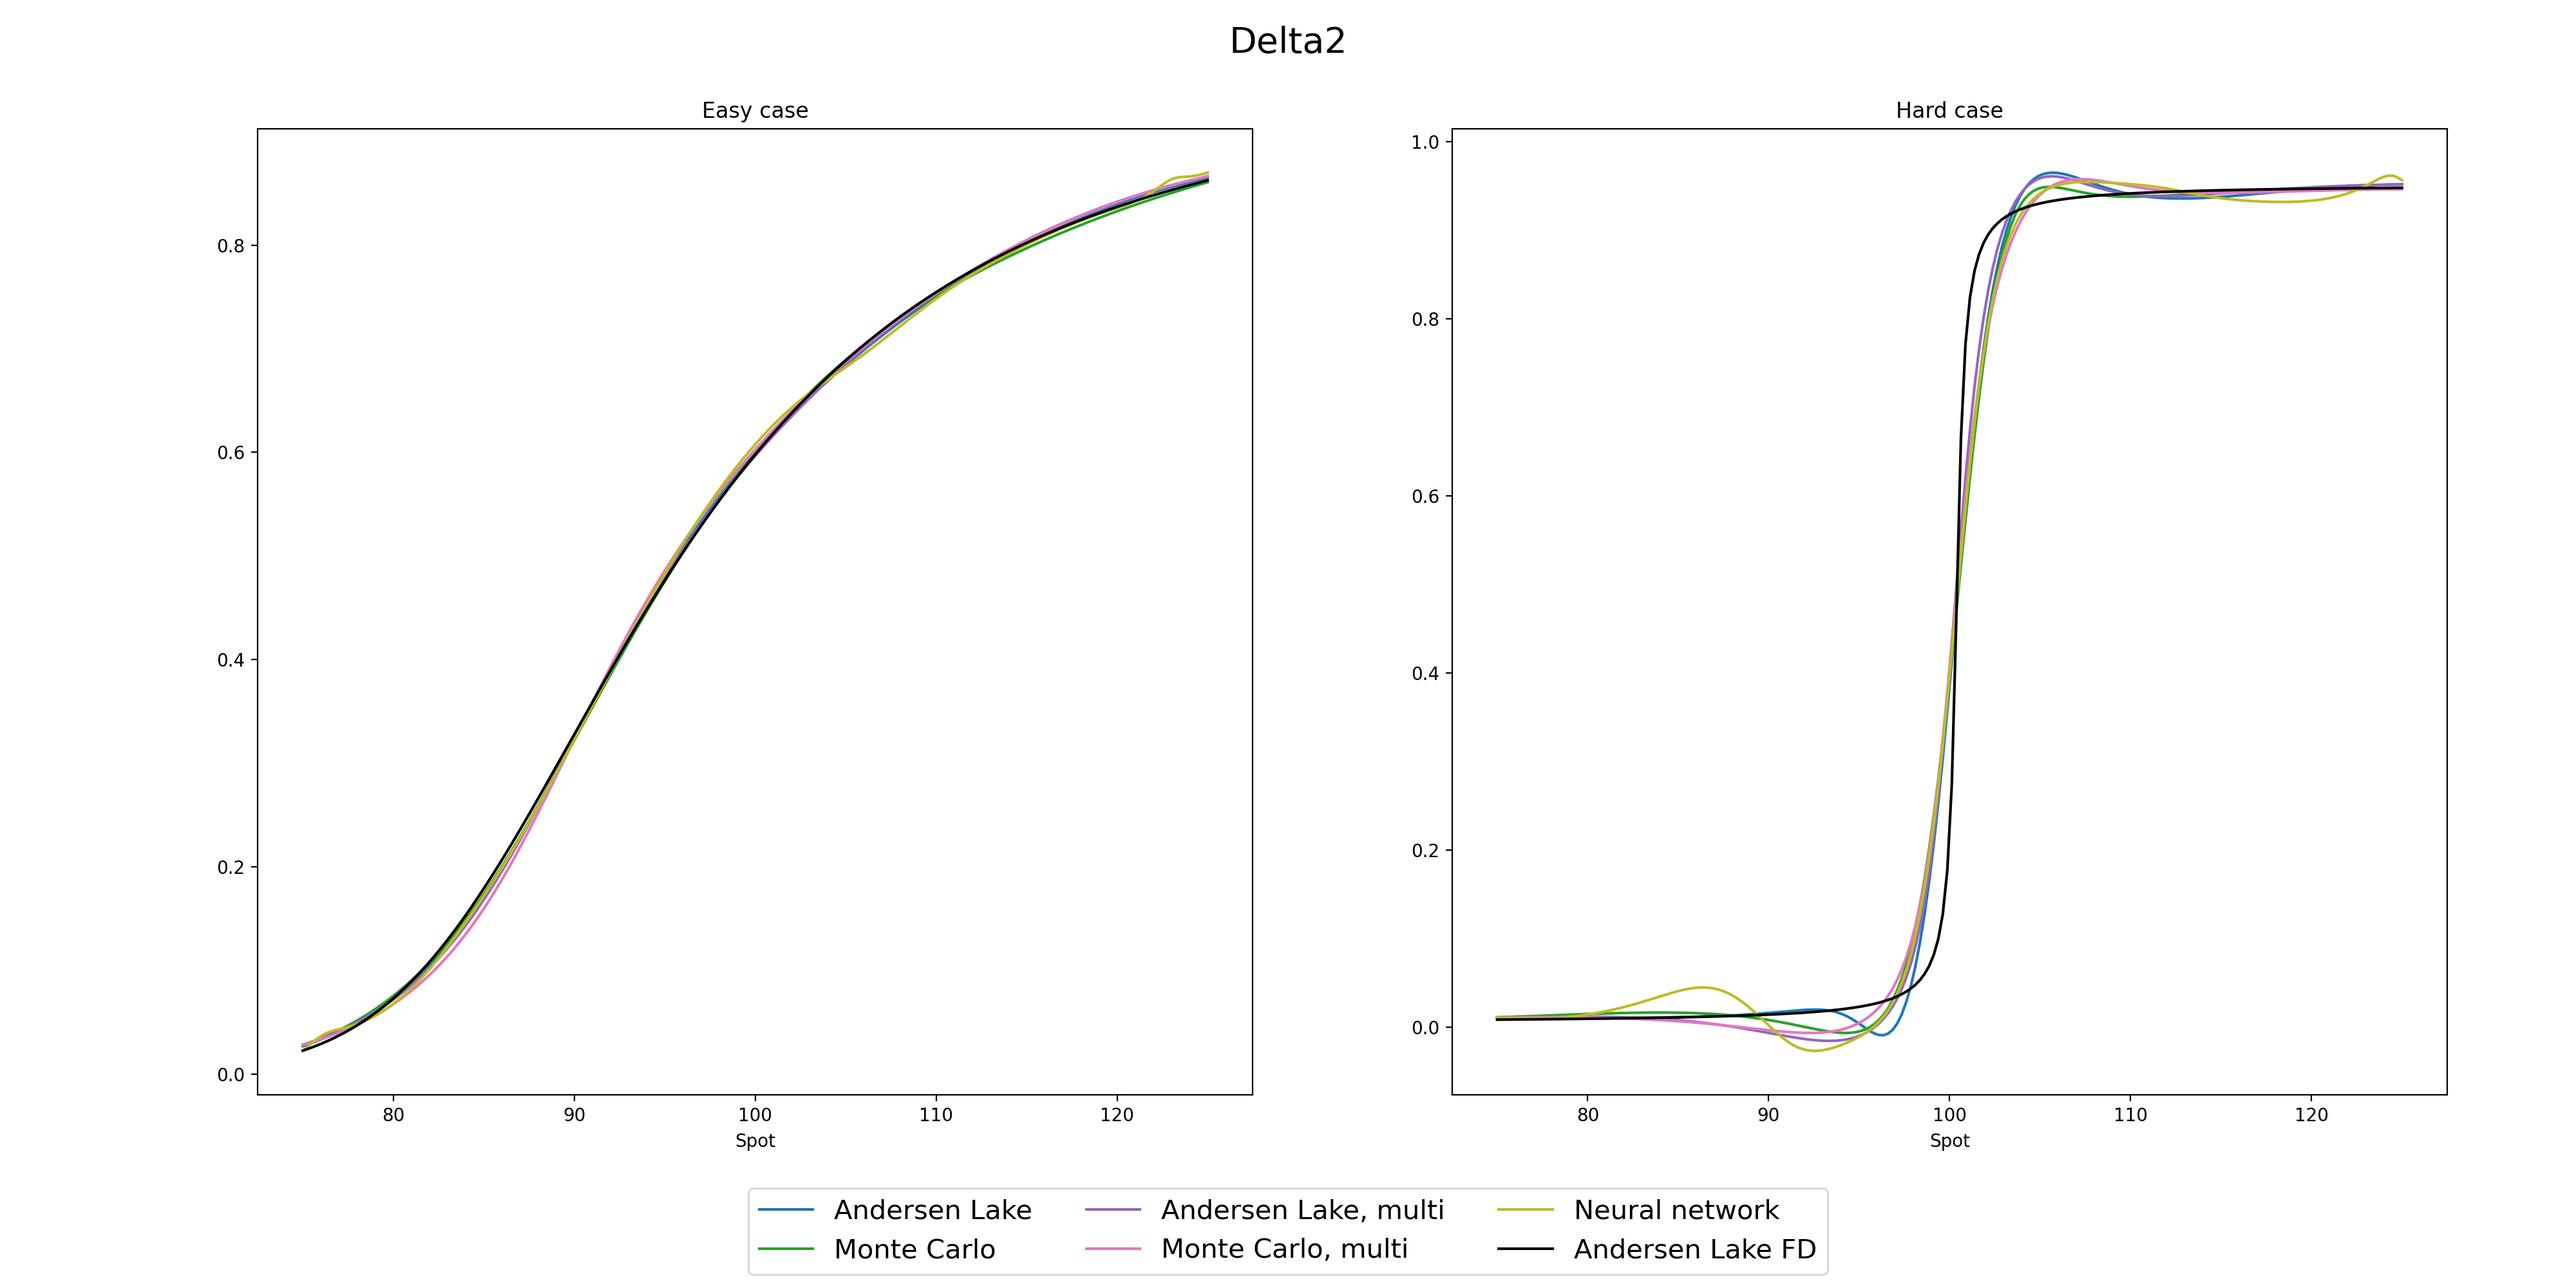
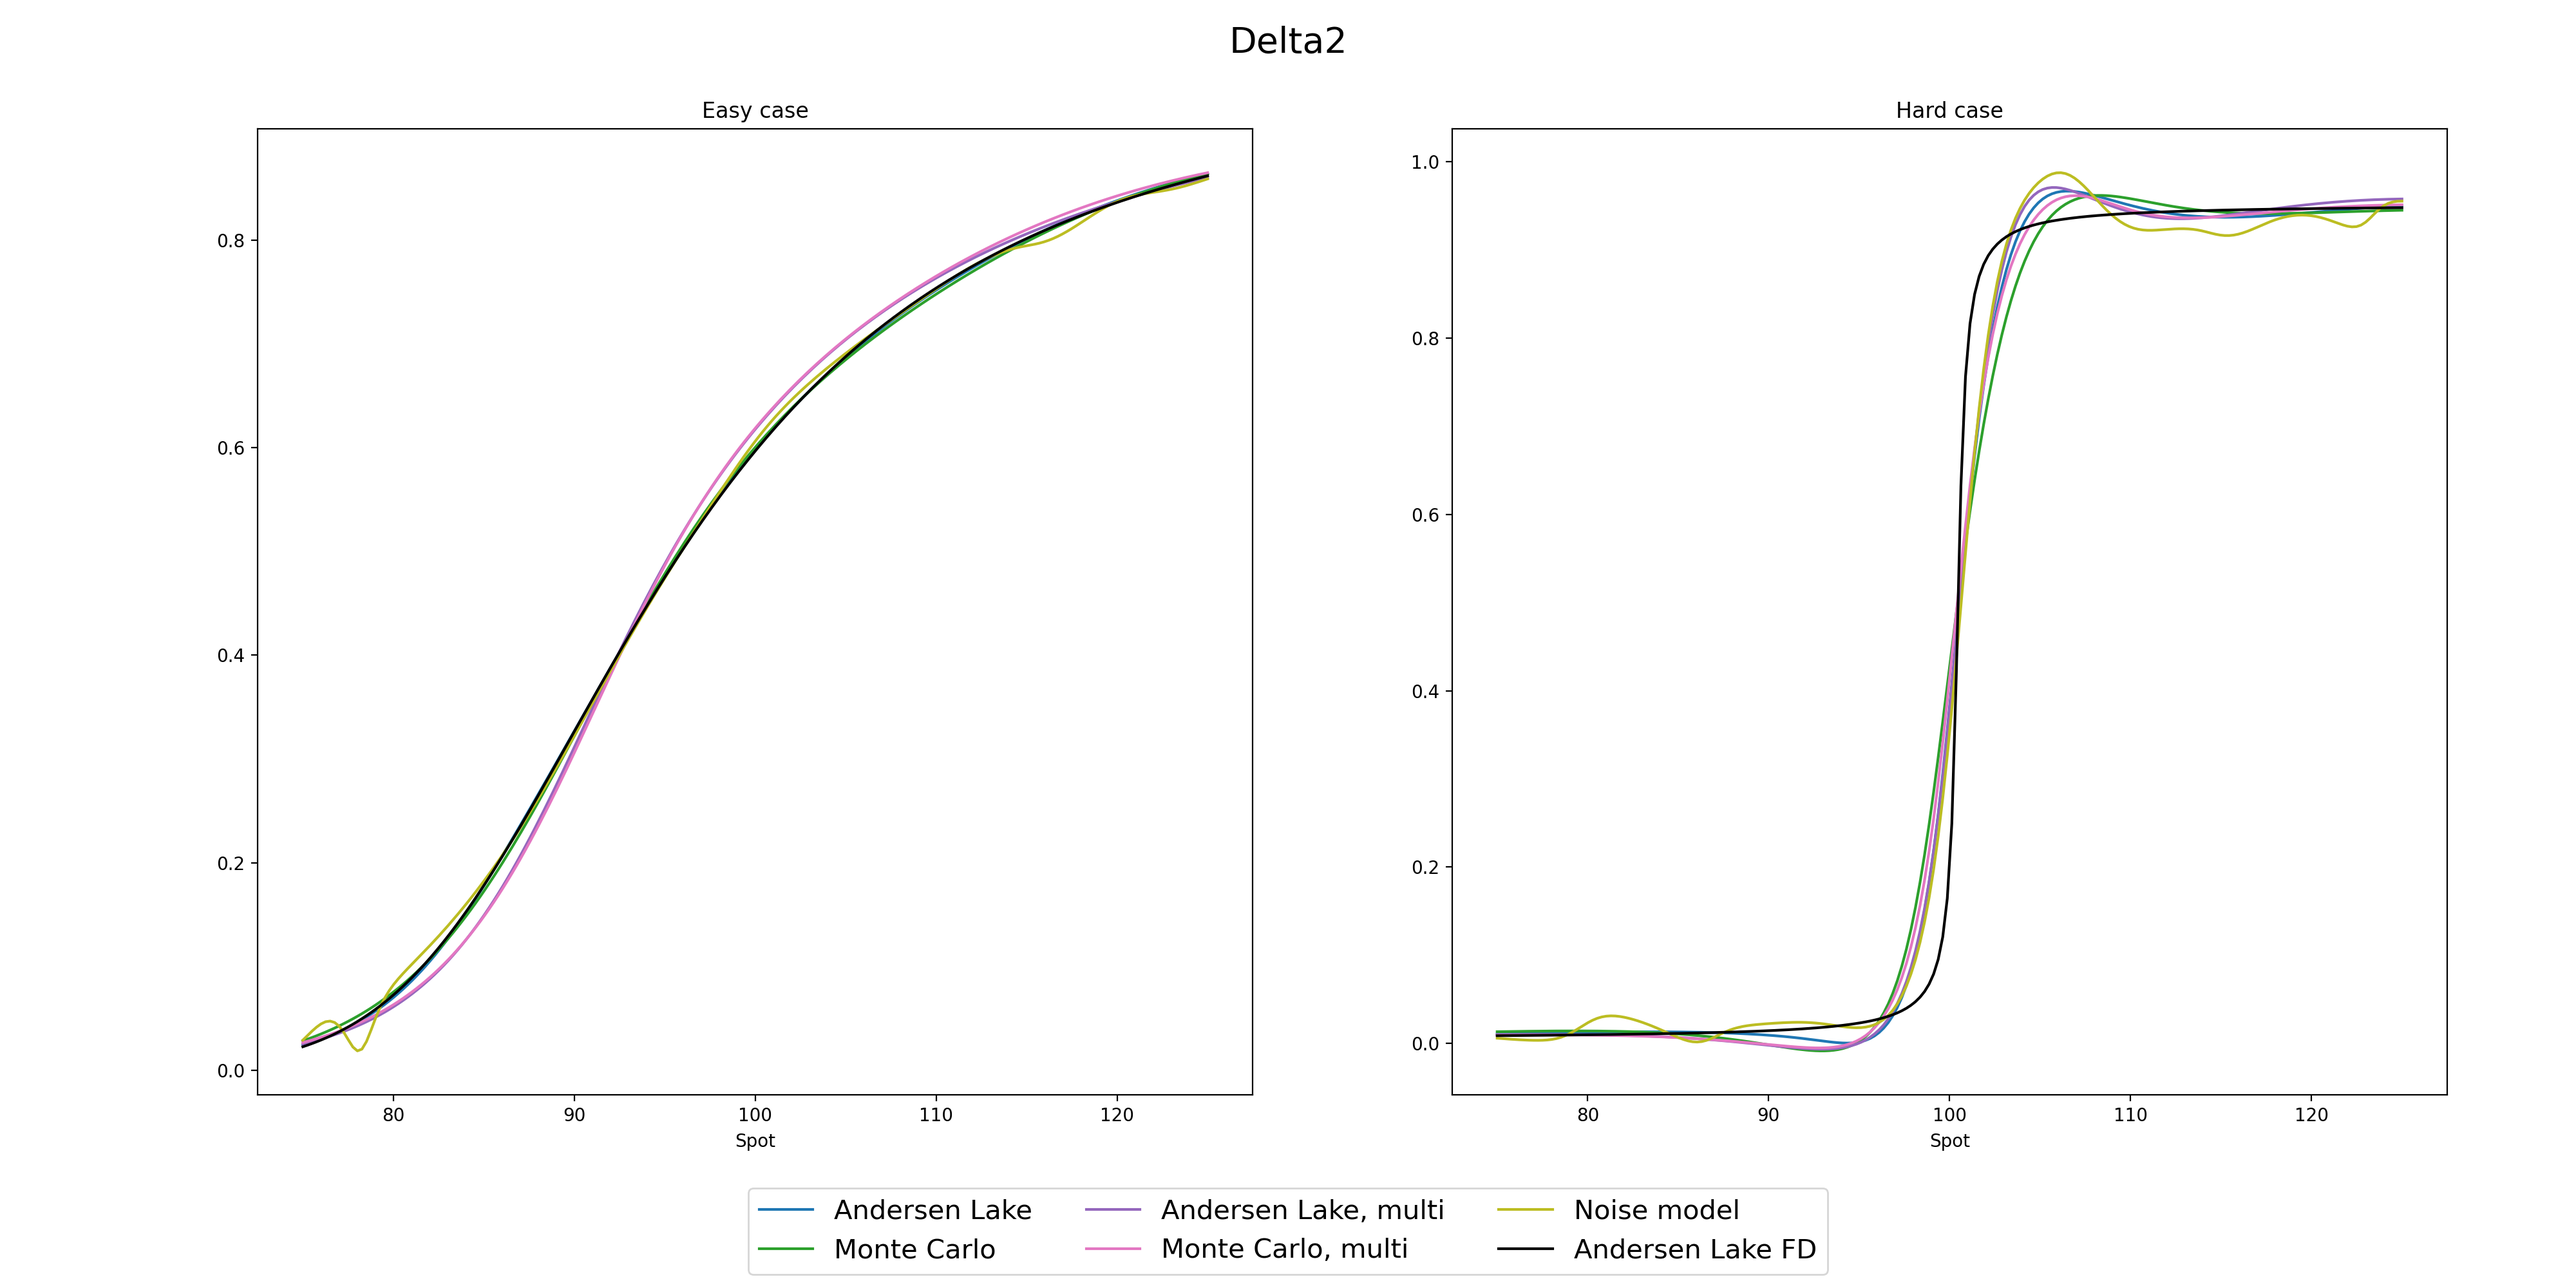
Mix models

diff --git a/Thesis/Heston/MC_al.py b/Thesis/Heston/MC_al.py
@@ -170,7 +170,7 @@ def model_grads(model_string : str, easy_case : np.ndarray, hard_case : np.ndarr
         if (model_string.find("price") != -1):
             norm_labels = joblib.load(model_string[:model_string.rfind("/")+1]+"price_scale.pkl")
     else:
-        norm_feature = joblib.load("Models4/norms/norm_feature.pkl")
+        norm_feature = joblib.load("Models4/norms/standard_features.pkl")
 
     if isinstance(norm_feature, MinMaxScaler):
         grads_scale = 1 / (norm_feature.data_max_[0] - norm_feature.data_min_[0])
@@ -197,9 +197,9 @@ def model_grads(model_string : str, easy_case : np.ndarray, hard_case : np.ndarr
     grads2_easy = grads2_easy[:,0] * grads2_scale
     grads_easy = grads_easy.numpy() * grads_scale
     try:
-        price_predictions_easy = norm_labels.inverse_transform(model(inp_tensor_easy))[:,12]
+        predict_easy = norm_labels.inverse_transform(model(inp_tensor_easy))[:,12]
     except:
-        price_predictions_easy = model(inp_tensor_easy)[:,12]
+        predict_easy = model(inp_tensor_easy)[:,12]
 
     with tf.GradientTape(persistent = True) as tape:
         tape.watch(inp_tensor_hard)
@@ -212,9 +212,9 @@ def model_grads(model_string : str, easy_case : np.ndarray, hard_case : np.ndarr
     grads2_hard = grads2_hard[:,0] * grads2_scale
     grads_hard = grads_hard.numpy() * grads_scale
     try:
-        price_predictions_hard = norm_labels.inverse_transform(model(inp_tensor_hard))[:,12]
+        predict_hard = norm_labels.inverse_transform(model(inp_tensor_hard))[:,12]
     except:
-        price_predictions_hard = model(inp_tensor_hard)[:,12]
+        predict_hard = model(inp_tensor_hard)[:,12]
 
     if (model_string.find("price") == -1): # we are modelling implied vol
         spot_plot = easy_case[:,0]
@@ -437,7 +437,7 @@ if __name__ == "__main__":
         grads_easy = tape2.gradient(predict_easy, inp_tensor_easy)[:,0]
     
     grads2_easy = tape.gradient(grads_easy, inp_tensor_easy).numpy()
-    grads2_easy = grads2_easy[:,0] / ((b - a) ** 2
+    grads2_easy = grads2_easy[:,0] / ((b - a) ** 2)
     grads_easy = grads_easy.numpy() / (b - a)
 
     with tf.GradientTape(persistent = True) as tape:
@@ -448,7 +448,7 @@ if __name__ == "__main__":
         grads_hard = tape2.gradient(predict_hard, inp_tensor_hard)[:,0]
     
     grads2_hard = tape.gradient(grads_hard, inp_tensor_hard).numpy()
-    grads2_hard = grads2_hard[:,0] / ((b - a) ** 2
+    grads2_hard = grads2_hard[:,0] / ((b - a) ** 2)
     grads_hard = grads_hard.numpy() / (b - a)
 
     delta_easy = np.zeros(200)
@@ -462,29 +462,46 @@ if __name__ == "__main__":
         model_bs_easy = bs.BlackScholesForward(spot_plot[i], predict_easy[i], rate)
         model_bs_hard = bs.BlackScholesForward(spot_plot[i], predict_hard[i], rate)
         price_easy[i] = model_bs_easy.BSFormula(some_option)
-        delta_easy[i] = model_bs_easy.delta_grads(some_option, a, b, grads_easy[i])
-        gamma_easy[i] = model_bs_easy.gamma_grads(some_option, a, b, grads_easy[i], grads2_easy[i])
+        delta_easy[i] = model_bs_easy.delta_grads(some_option, grads_easy[i])
+        gamma_easy[i] = model_bs_easy.gamma_grads(some_option, grads_easy[i], grads2_easy[i])
         
         price_hard[i] = model_bs_hard.BSFormula(some_option)
-        delta_hard[i] = model_bs_hard.delta_grads(some_option, a, b, grads_hard[i])
-        gamma_hard[i] = model_bs_hard.gamma_grads(some_option, a, b, grads_hard[i], grads2_hard[i])
+        delta_hard[i] = model_bs_hard.delta_grads(some_option, grads_hard[i])
+        gamma_hard[i] = model_bs_hard.gamma_grads(some_option, grads_hard[i], grads2_hard[i])
+
+    ### Noise
+    noise_model = "Models4/noise/noise_5_500.h5"
+    noise_dict = model_grads(noise_model, input_good_easy, input_good_hard, some_option)
+
+    prediction_data = {
+        "Andersen Lake" : [al_predict1, al_predict2],
+        "Monte Carlo" : [mc_predict1, mc_predict2],
+        "Andersen Lake, multi" : [al_multi_predict1, al_multi_predict2],
+        "Monte Carlo, multi" : [mc_multi_predict1, mc_multi_predict2],
+        "Noise model" : [noise_dict["pred"][0], noise_dict["pred"][1]]
+    }
+
+    delta_data = {
+        "Andersen Lake" : [al_grads1, al_grads2],
+        "Monte Carlo" : [mc_grads1, mc_grads2],
+        "Andersen Lake, multi" : [al_multi_grads1[:,0], al_multi_grads2[:,0]],
+        "Monte Carlo, multi" : [mc_multi_grads1[:,0], mc_multi_grads2[:,0]],
+        "Noise model" : [noise_dict["delta"][0], noise_dict["delta"][1]]
+    }
+
+    gamma_data = {
+        "Andersen Lake" : [al_grads1_2, al_grads2_2],
+        "Monte Carlo" : [mc_grads1_2, mc_grads2_2],
+        "Andersen Lake, multi" : [al_multi_grads1_2[:,0], al_multi_grads2_2[:,0]],
+        "Monte Carlo, multi" : [mc_multi_grads1_2[:,0], mc_multi_grads2_2[:,0]],
+        "Noise model" : [noise_dict["gamma"][0], noise_dict["gamma"][1]]
+    }
+
+    plot_func(spot_plot, prediction_data, "Predictions")
+    plot_func(spot_plot, delta_data, "Delta")
+    plot_func(spot_plot, gamma_data, "Gamma")
 
     ### Monte Carlo models
-    # Price
-    mc_1 = glob.glob("Models4/mc_1/*.h5")
-    mc_10 = glob.glob("Models4/mc_10/*.h5")
-    mc_100 = glob.glob("Models4/mc_100/*.h5")
-    mc_1000 = glob.glob("Models4/mc_1000/*.h5")
-    mc_10000 = glob.glob("Models4/mc_10000/*.h5")
-    mc_1_price = glob.glob("Models4/mc_1/price/*.h5")
-    mc_10_price = glob.glob("Models4/mc_10/price/*.h5")
-    mc_100_price = glob.glob("Models4/mc_100/price/*.h5")
-    mc_1000_price = glob.glob("Models4/mc_1000/price/*.h5")
-    mc_10000_price = glob.glob("Models4/mc_10000/price/*.h5")
-
-    imp_monte_carlo = mc_1 + mc_10 + mc_100 + mc_1000 + mc_10000
-    price_monte_carlo = mc_1_price + mc_10_price + mc_100_price + mc_1000_price + mc_10000_price
-
     model_grads("Models4/mc_10000/price/mc_10000_price_4_100.h5", input_good_easy, input_good_hard, some_option)
 
     plot_mc_dict = {}
@@ -570,7 +587,7 @@ if __name__ == "__main__":
 
 
 """
-    h = 0.001
+    h = 0.01
     price_easy_al = np.zeros(200)
     price_hard_al = np.zeros(200)
     delta_easy_al = np.zeros(200)
@@ -580,34 +597,46 @@ if __name__ == "__main__":
     for i in range(len(spot_plot)):
         h = 0.1
         some_spot = spot_plot[i]
-        some_spot_low = some_spot - 0.5 * h
-        some_spot_high = some_spot + 0.5 * h
+        some_spot_low = some_spot - h
+        some_spot_low2 = some_spot - 0.5 * h
+        some_spot_high = some_spot + h
+        some_spot_high2 = some_spot + 0.5 * h
 
         ### Andersen Lake FD
         ### Easy
         hm_c = hm.HestonClass(some_spot, vol1, kappa1, theta1, epsilon1, rho1, rate)
         hm_low = hm.HestonClass(some_spot_low, vol1, kappa1, theta1, epsilon1, rho1, rate)
+        hm_low2 = hm.HestonClass(some_spot_low2, vol1, kappa1, theta1, epsilon1, rho1, rate)
+
         hm_high = hm.HestonClass(some_spot_high, vol1, kappa1, theta1, epsilon1, rho1, rate)
+        hm_high2 = hm.HestonClass(some_spot_high2, vol1, kappa1, theta1, epsilon1, rho1, rate)
+
 
         al_f_x = al.Andersen_Lake(hm_c, some_option)
         al_f_x_p = al.Andersen_Lake(hm_high, some_option)
+        al_f_x_p2 = al.Andersen_Lake(hm_high2, some_option)
         al_f_x_m = al.Andersen_Lake(hm_low, some_option)
+        al_f_x_m2 = al.Andersen_Lake(hm_low2, some_option)
 
         price_easy_al[i] = al_f_x
-        delta_easy_al[i] = ((al_f_x_p - al_f_x_m) / h ) 
+        delta_easy_al[i] = ((al_f_x_p2 - al_f_x_m2) / h ) 
         gamma_easy_al[i] = (al_f_x_p - 2 * al_f_x + al_f_x_m) / (h * h)
 
         ### Hard
         hm_c_hard = hm.HestonClass(some_spot, vol2, kappa2, theta2, epsilon2, rho2, rate)
         hm_low_hard = hm.HestonClass(some_spot_low, vol2, kappa2, theta2, epsilon2, rho2, rate)
         hm_high_hard = hm.HestonClass(some_spot_high, vol2, kappa2, theta2, epsilon2, rho2, rate)
+        hm_low_hard2 = hm.HestonClass(some_spot_low2, vol2, kappa2, theta2, epsilon2, rho2, rate)
+        hm_high_hard2 = hm.HestonClass(some_spot_high2, vol2, kappa2, theta2, epsilon2, rho2, rate)
 
         al_f_x_hard = al.Andersen_Lake(hm_c_hard, some_option)
         al_f_x_p_hard = al.Andersen_Lake(hm_high_hard, some_option)
         al_f_x_m_hard = al.Andersen_Lake(hm_low_hard, some_option)
+        al_f_x_p_hard2 = al.Andersen_Lake(hm_high_hard2, some_option)
+        al_f_x_m_hard2 = al.Andersen_Lake(hm_low_hard2, some_option)
 
         price_hard_al[i] = al_f_x_hard
-        delta_hard_al[i] = ((al_f_x_p_hard - al_f_x_hard) / h ) 
+        delta_hard_al[i] = ((al_f_x_p_hard2 - al_f_x_m_hard2) / h ) 
         gamma_hard_al[i] = (al_f_x_p_hard - 2 * al_f_x_hard + al_f_x_m_hard) / (h * h)
 
     prediction_data["Andersen Lake FD"] = [price_easy_al, price_hard_al]
@@ -616,5 +645,5 @@ if __name__ == "__main__":
     plot_func(spot_plot, prediction_data, "Predictions2")
     plot_func(spot_plot, delta_data, "Delta2")
     plot_func(spot_plot, gamma_data, "Gamma2")
-    
+
 """

diff --git a/Thesis/Heston/ServerModelGenerator.py b/Thesis/Heston/ServerModelGenerator.py
@@ -38,10 +38,25 @@ if __name__ == '__main__':
     Y_train_wide = np.loadtxt("Data/Sobol2_Y_train.csv", delimiter = ",")
     Y_test_wide = np.loadtxt("Data/Sobol2_Y_test.csv", delimiter = ",")
 
+    mc_train_index = np.loadtxt("Data/MC/train_index.csv", delimiter = ",").astype(int)
+    mc_test_index = np.loadtxt("Data/MC/test_index.csv", delimiter = ",").astype(int)
+    mc_input = np.loadtxt("Data/MC/HestonMC_input.csv", delimiter = ",")
+    mc_output = np.loadtxt("Data/MC/HestonMC_imp_vol_10000.csv", delimiter = ",")
+    X_train_mc = mc_input[mc_train_index, :]
+    X_test_mc = mc_input[mc_test_index, :]
+    Y_train_mc = mc_output[mc_train_index, :]
+    Y_test_mc = mc_output[mc_test_index, :]np.
+
     data_set = [X_train, X_test, Y_train, Y_test]
     data_set_price = [X_train_price, X_test_price, Y_train_price, Y_test_price]
     data_set_grid = [X_train_grid, X_test_grid, Y_train_grid, Y_test_grid]
     data_set_wide = [X_train_wide, X_test_wide, Y_train_wide, Y_test_wide]
+    data_set_mix = [
+        np.concatenate((X_train, X_train_mc)),
+        np.concatenate((X_test, X_test_mc)),
+        np.concatenate((Y_train, Y_train_mc)),
+        np.concatenate((Y_test, Y_test_mc))
+    ]
 
     layers = [1, 2, 3, 4, 5]
     neurons = [50, 100, 500, 1000]
@@ -90,6 +105,10 @@ if __name__ == '__main__':
     noise_list = list(zip(itertools.repeat(data_set), itertools.repeat("noise2"), itertools.repeat("noise"), \
         layer_neuron_combs[:, 0], layer_neuron_combs[:, 1], itertools.repeat("noise"), itertools.repeat(False), itertools.repeat(True)))
 
+    final_mix_data = list(zip(itertools.repeat(data_set_mix), itertools.repeat("mix_data"), itertools.repeat("mix_data"), \
+        layer_neuron_combs[:, 0], layer_neuron_combs[:, 1], itertools.repeat("mix"), itertools.repeat(False), itertools.repeat(True)))
+
+
     mac_list = final_list + final_list2 + final_list3
     server_list = price_list + standard_list + mix_list + tanh_list
 
@@ -99,5 +118,5 @@ if __name__ == '__main__':
         cpu_cores = int(min(cpu_count()/4, 16))
 
     pool = Pool(cpu_cores)
-    res = pool.starmap(mg.NNModelNext, noise_list, chunksize=1)
+    res = pool.starmap(mg.NNModelNext, final_mix_data, chunksize=1)
     pool.close()

diff --git a/Thesis/Heston/ModelTesting.py b/Thesis/Heston/ModelTesting.py
@@ -230,7 +230,7 @@ def model_test_set(model_list : list, X_test : np.ndarray, Y_test : np.ndarray) 
                 norm_feature = joblib.load(norm_folder+"norm_feature_grid.pkl")
         elif (model_string.find("single") != -1):
             norm_feature = joblib.load(norm_folder+"norm_feature_single.pkl")
-        elif (model_string.find("standard") != -1 or ((model_string.find("final") != -1 and model_string.find("final3") == -1 ))):
+        elif (model_string.find("standard") != -1 or ((model_string.find("final") != -1 and model_string.find("final3") == -1 )) or (model_string.find("noise") != -1)):
             norm_feature = joblib.load(norm_folder+"standard_features.pkl")
         else:
             norm_feature = joblib.load(norm_folder+"norm_feature.pkl")
@@ -311,6 +311,9 @@ if __name__ == "__main__":
     final3 = glob.glob("Models4/final3/*.h5")
     #generate_plots(final3, "final3")
 
+    noise1 = glob.glob("Models4/noise/*.h5")
+    noise2 = glob.glob("Models4/noise2/*.h5")
+
     price_standard = glob.glob("Models4/price_standard/*.h5")
     ### Removing overfitting
     price_standard.remove("Models4/price_standard/price_standard_3_1000.h5")
@@ -329,6 +332,9 @@ if __name__ == "__main__":
     mse_list[:15]
     generate_bar_error(mse_list[:15], "Top models test set")
 
+    noise_mse = model_test_set(noise1+noise2, X_test, Y_test)
+    noise_mse.sort(key = lambda x: x[1])
+
     ### To look at the best models
     top_models = []
     for i in range(15):
@@ -336,7 +342,6 @@ if __name__ == "__main__":
 
     ### Generate surfaces
     generate_plots(["Models4/" + s for s in top_models], "Top models")
-
 
     ### Testing simulation models
     mc_1 = glob.glob("Models4/mc_1/*.h5")
